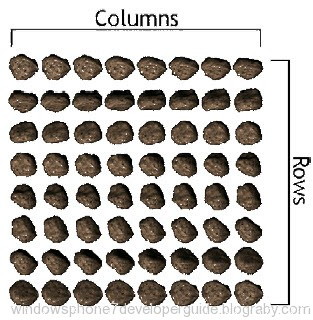
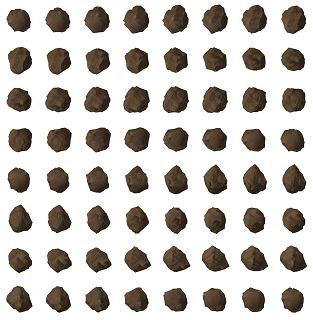
New asteroid sheet. May need some work.

diff --git a/SpaceObject.js b/SpaceObject.js
@@ -423,9 +423,15 @@ function Asteroid(game, angle, velocity, x, y, size) {
 	this.radius = 16 * size;
 	this.mass = 10 * size;
 
-	this.animations = {"normal": new Animation(AM.getAsset("./images/asteroid.png"), 8, 52, 32, 32, 0.01, 8, 64, true, false),
+	/*this.animations = {"normal": new Animation(AM.getAsset("./images/asteroid.png"), 8, 52, 32, 32, 0.01, 8, 64, true, false),
 					   "reverse": new Animation(AM.getAsset("./images/asteroid.png"), 8, 52, 32, 32, 0.01, 8, 64, true, true),
-					   "exploding": new Animation(AM.getAsset("./images/asteroid_explosion.png"), 2, 2, 85, 84, 0.03, 4, 16, false, false)};
+					   "exploding": new Animation(AM.getAsset("./images/asteroid_explosion.png"), 2, 2, 85, 84, 0.03, 4, 16, false, false)};*/
+	this.animations = {"normal": new Animation(AM.getAsset("./images/asteroid.png"), 0, 0, 39, 40, 0.01, 8, 64, true, false),
+			   "reverse": new Animation(AM.getAsset("./images/asteroid.png"), 0, 0, 39, 40, 0.01, 8, 64, true, true),
+			   "exploding": new Animation(AM.getAsset("./images/asteroid_explosion.png"), 2, 2, 85, 84, 0.03, 4, 16, false, false)};
+	/*this.animations = {"normal": new Animation(AM.getAsset("./images/asteroid.png"), 0, 0, 128, 128, 0.01, 8, 64, true, false),
+			   "reverse": new Animation(AM.getAsset("./images/asteroid.png"), 0, 0, 128, 128, 0.01, 8, 64, true, true),
+			   "exploding": new Animation(AM.getAsset("./images/asteroid_explosion.png"), 2, 2, 85, 84, 0.03, 4, 16, false, false)};*/
 	this.animation = this.animations[this.state];
 
 	
